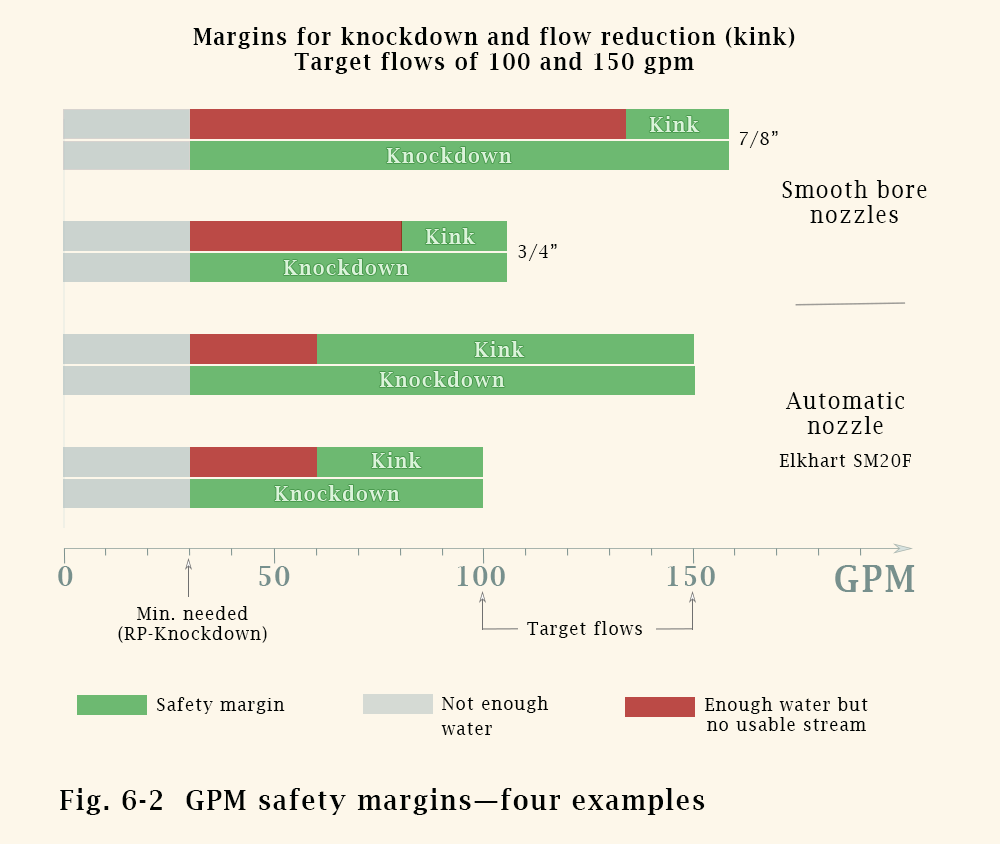
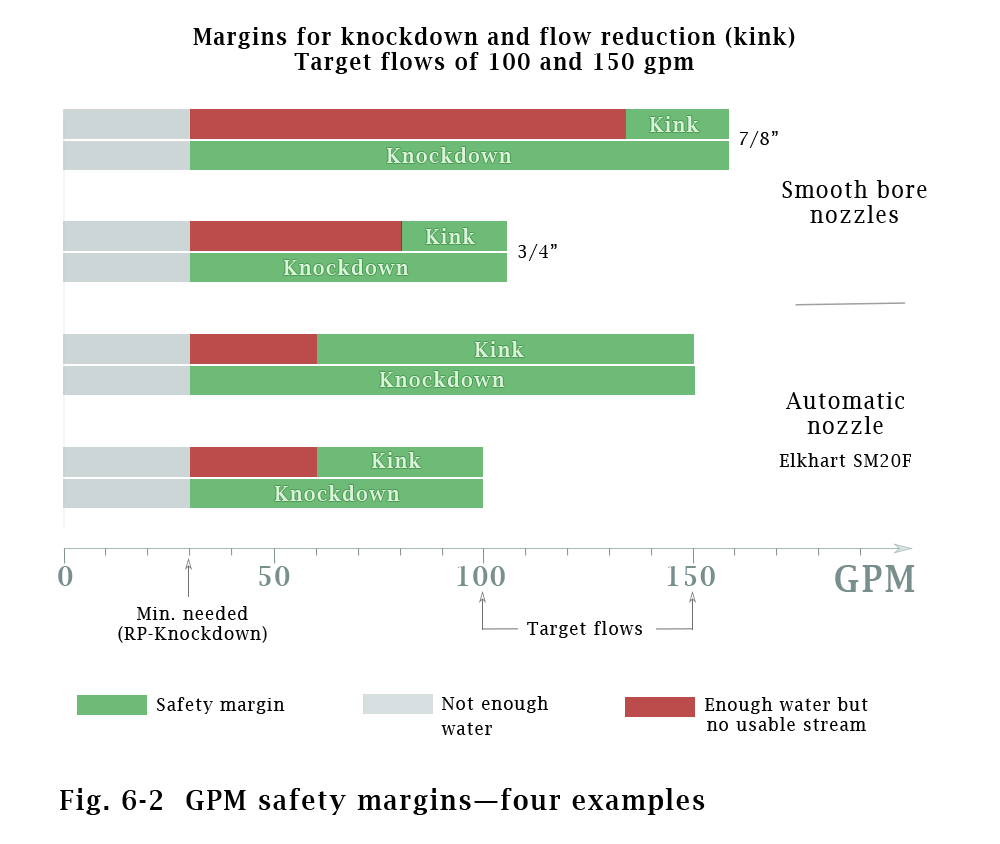
Made GPM safety margin graphic transparent again.  Eliminated word "subroof".

diff --git a/PorchFires.html b/PorchFires.html
@@ -89,7 +89,7 @@
 	<p>I don’t know, and it might be a moot point.&nbsp; You’re flowing enough water if you can reach all the fuel surfaces and if each surface stays wet for a few seconds.&nbsp; You will almost certainly need more GPM to get the reach than you will need to knock the fire.</p>
 	
 	<h3>Are there any situations that require extra GPM?</h3>
-	<p>Sort of.&nbsp; Asphalt shingles require a little more water than other common fuel surfaces.&nbsp; If a subroof or other area seems stubborn, you can put more water on each square foot by slowing down your sweep speed.&nbsp; Be systematic about making progress across that surface.</p>
+	<p>Sort of.&nbsp; Asphalt shingles require a little more water than other common fuel surfaces.&nbsp; If a roof or other area seems stubborn, you can put more water on each square foot by slowing down your sweep speed.&nbsp; Be systematic about making progress across that surface.</p>
 	
 	</section>
 <section class="Wisdom">
